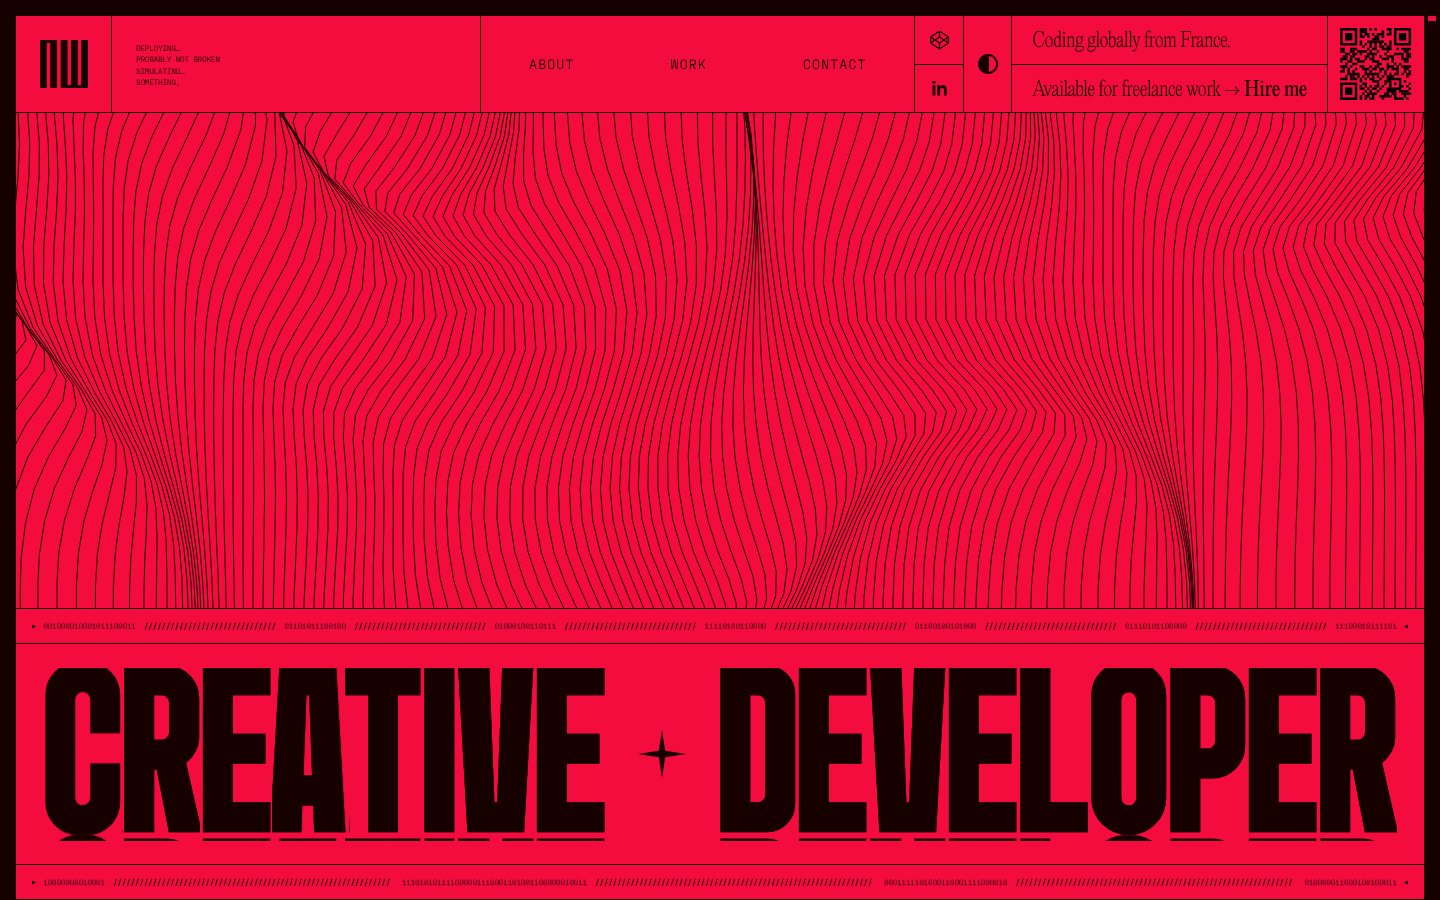
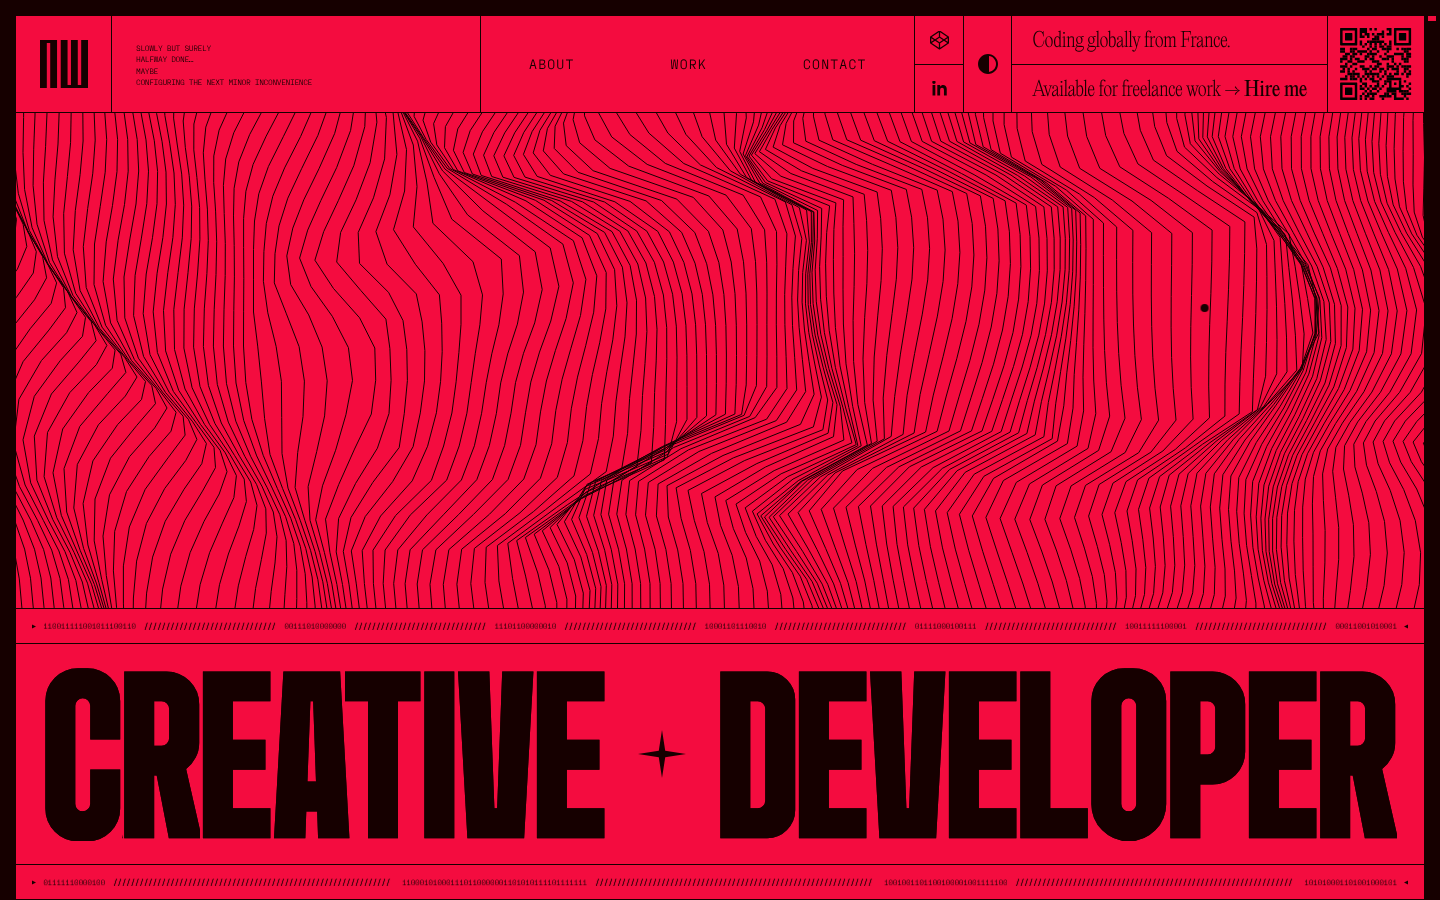
Re-shoot wodniack.dev and portfolio.ohevan.com site cards
wodniack.dev: wait for the hero to fully settle, then run the cursor across
the line field so the shot shows its signature crumpled-wave interaction.
Headless Linux Chrome lays out the "Bigger Display" headline with the
font's OS/2 typo metrics, which lets the stacked duplicate letters (the
hover-roll effect) peek out under every glyph; the capture applies the
font's own hhea metrics via @font-face overrides, matching how macOS
renders it and the author's own og:image. Saved as a lossless-looking
64-colour PNG (180KB).

portfolio.ohevan.com: replace the mid-page "Lights in Motion" section
with the opening collage -- the full "THIS IS EVAN" type over the cloud
and water-splash images -- scrolled one ArrowDown step (the site's own
100-unit keyboard step) so the nav is gone and no letter is clipped.

Alt text updated in EN and ZH.

Claude-Session: https://claude.ai/code/session_01U959R8E4yzYqvyrEDQAUWL

diff --git a/content/posts/favorite-personal-websites/index.md b/content/posts/favorite-personal-websites/index.md
@@ -43,7 +43,7 @@ This site is famous, and I first saw it years ago. Looking at it again now, it h
 This site feels a bit like watching a movie. You move through a forest-like environment, and the whole atmosphere feels incredibly complete. What I especially like is how well the weather and environmental transitions are handled. It creates a really strong sense of immersion.
 {{< /site-card >}}
 
-{{< site-card url="https://wodniack.dev" title="wodniack.dev" image="/images/favorite-personal-websites/wodniack-homepage.png" alt="wodniack.dev hero with its line-wave animation and 'CREATIVE DEVELOPER' headline" >}}
+{{< site-card url="https://wodniack.dev" title="wodniack.dev" image="/images/favorite-personal-websites/wodniack-homepage.png" alt="wodniack.dev hero: the line field crumpled by the cursor, above the 'CREATIVE DEVELOPER' headline" >}}
 This is another site with a very strong personal style. A lot of the interactions and scroll-triggered effects feel unique and artistic. You can tell the author is not just using a template, but actually using the website as a way to express a distinct visual point of view.
 {{< /site-card >}}
 
@@ -59,7 +59,7 @@ This isn't a personal website, but a product showcase site. Still, the animation
 This site feels great from top to bottom. The typography, the colors, and even the little interactive game on the homepage all make you feel that the author's taste is excellent, not in a flashy way, but in a way that keeps feeling better the longer you look at it. On top of that, he writes a lot of technical articles, so it's not just beautiful, it's genuinely useful too.
 {{< /site-card >}}
 
-{{< site-card url="https://portfolio.ohevan.com" title="portfolio.ohevan.com" image="/images/favorite-personal-websites/ohevan-portfolio-homepage.jpg" alt="portfolio.ohevan.com: a long-exposure shot of light trails on a Montreal highway under oversized 'Lights in Motion' type" >}}
+{{< site-card url="https://portfolio.ohevan.com" title="portfolio.ohevan.com" image="/images/favorite-personal-websites/ohevan-portfolio-homepage.jpg" alt="portfolio.ohevan.com opening screen: oversized 'THIS IS EVAN' type layered over a glowing cloud image and a water-splash photo" >}}
 This site feels more like a personal showcase of someone's portfolio, the places they've been, and the photos they've taken, and those photos genuinely look cinematic. I really like this direction myself. If I ever end up with enough photos that feel worth sharing, I'd love to seriously think about making something like this too.
 {{< /site-card >}}
 

diff --git a/content/posts/favorite-personal-websites/index.zh.md b/content/posts/favorite-personal-websites/index.zh.md
@@ -42,7 +42,7 @@ alt = '阳光木桌上摊开的剪贴本，贴满复古明信片与照片'
 这个网站给我的感觉很像在看电影。你像是在树林里穿来穿去，整个场景的氛围特别完整。尤其是它对天气和环境变化的处理，真的做得很好，所以你在里面待着的时候会很有沉浸感。
 {{< /site-card >}}
 
-{{< site-card url="https://wodniack.dev" title="wodniack.dev" image="/images/favorite-personal-websites/wodniack-homepage.png" alt="wodniack.dev 首屏：线条波浪动画与「CREATIVE DEVELOPER」大标题" >}}
+{{< site-card url="https://wodniack.dev" title="wodniack.dev" image="/images/favorite-personal-websites/wodniack-homepage.png" alt="wodniack.dev 首屏：鼠标划过后皱成一团的线条波浪，下方是「CREATIVE DEVELOPER」大标题" >}}
 这个网站也是个人风格非常鲜明的那一类。它里面的很多互动，还有滚动时触发出来的效果，都做得很独特，也很有艺术感。你能感觉到作者不是在套一个模板，而是真的在用网站表达自己的审美。
 {{< /site-card >}}
 
@@ -58,7 +58,7 @@ alt = '阳光木桌上摊开的剪贴本，贴满复古明信片与照片'
 这个网站整体做得特别舒服。无论是字体、配色，还是首页上的互动小游戏，都会让人觉得这个人的审美真的很好，而且是那种越看越觉得舒服的好。再加上他还写了很多技术文章，所以它不只是好看，也很值得学习。
 {{< /site-card >}}
 
-{{< site-card url="https://portfolio.ohevan.com" title="portfolio.ohevan.com" image="/images/favorite-personal-websites/ohevan-portfolio-homepage.jpg" alt="portfolio.ohevan.com：他在蒙特利尔拍的公路车灯长曝光照片，配上超大号「Lights in Motion」标题" >}}
+{{< site-card url="https://portfolio.ohevan.com" title="portfolio.ohevan.com" image="/images/favorite-personal-websites/ohevan-portfolio-homepage.jpg" alt="portfolio.ohevan.com 首屏：超大号「THIS IS EVAN」叠在发光的云朵图和水花照片上" >}}
 这个网站更像是在展示一个人的作品集、去过的地方，还有他拍过的照片，而且那些照片拍得真的很像大片一样。我自己也非常喜欢这种方向，等以后我有更多值得分享的照片时，也很想认真想一想，要不要做一个类似的页面。
 {{< /site-card >}}
 
